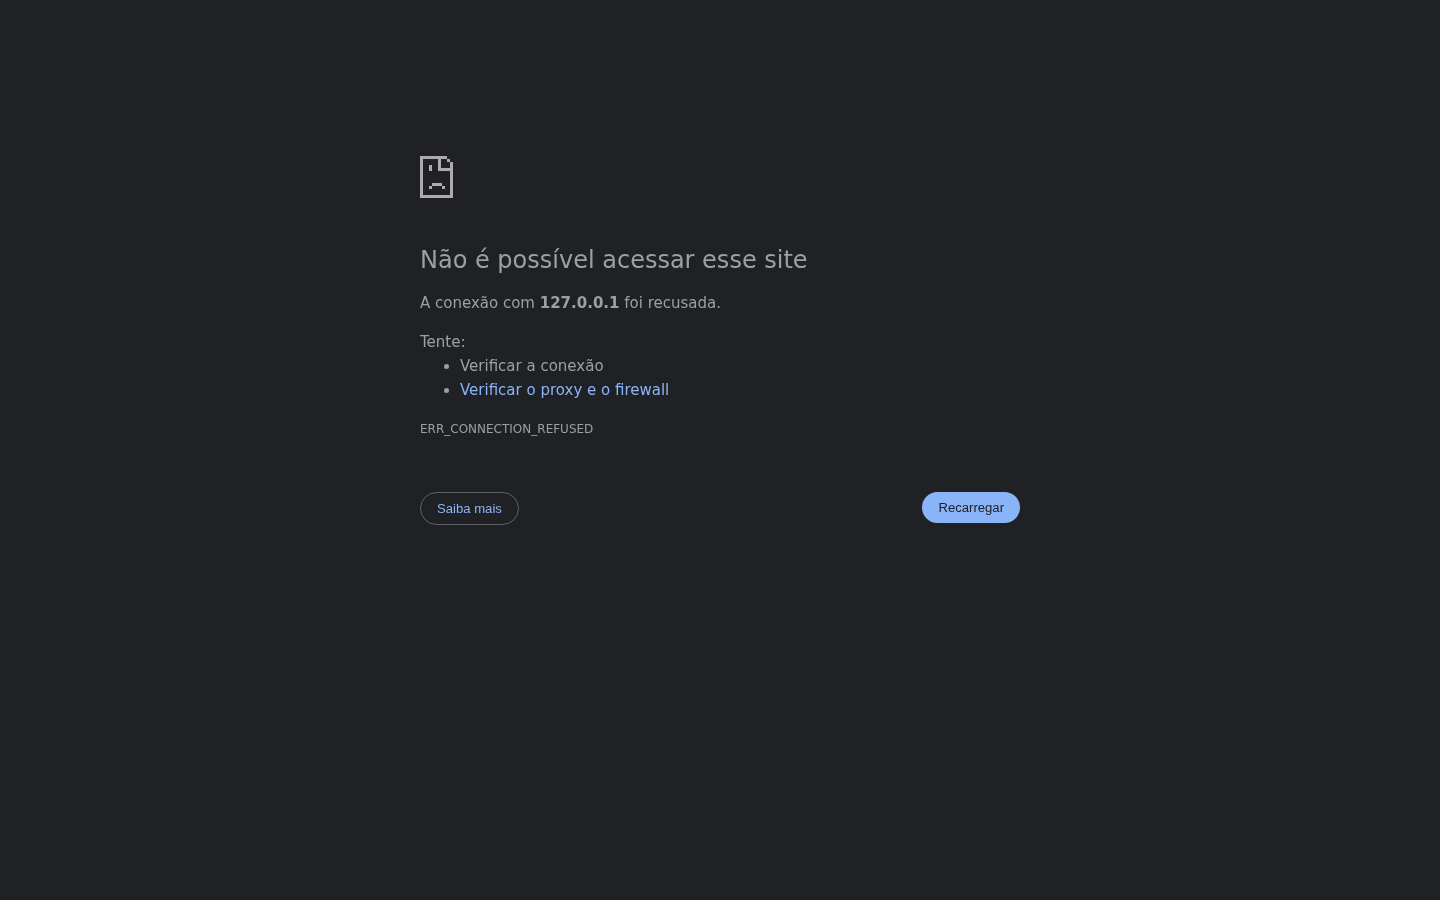
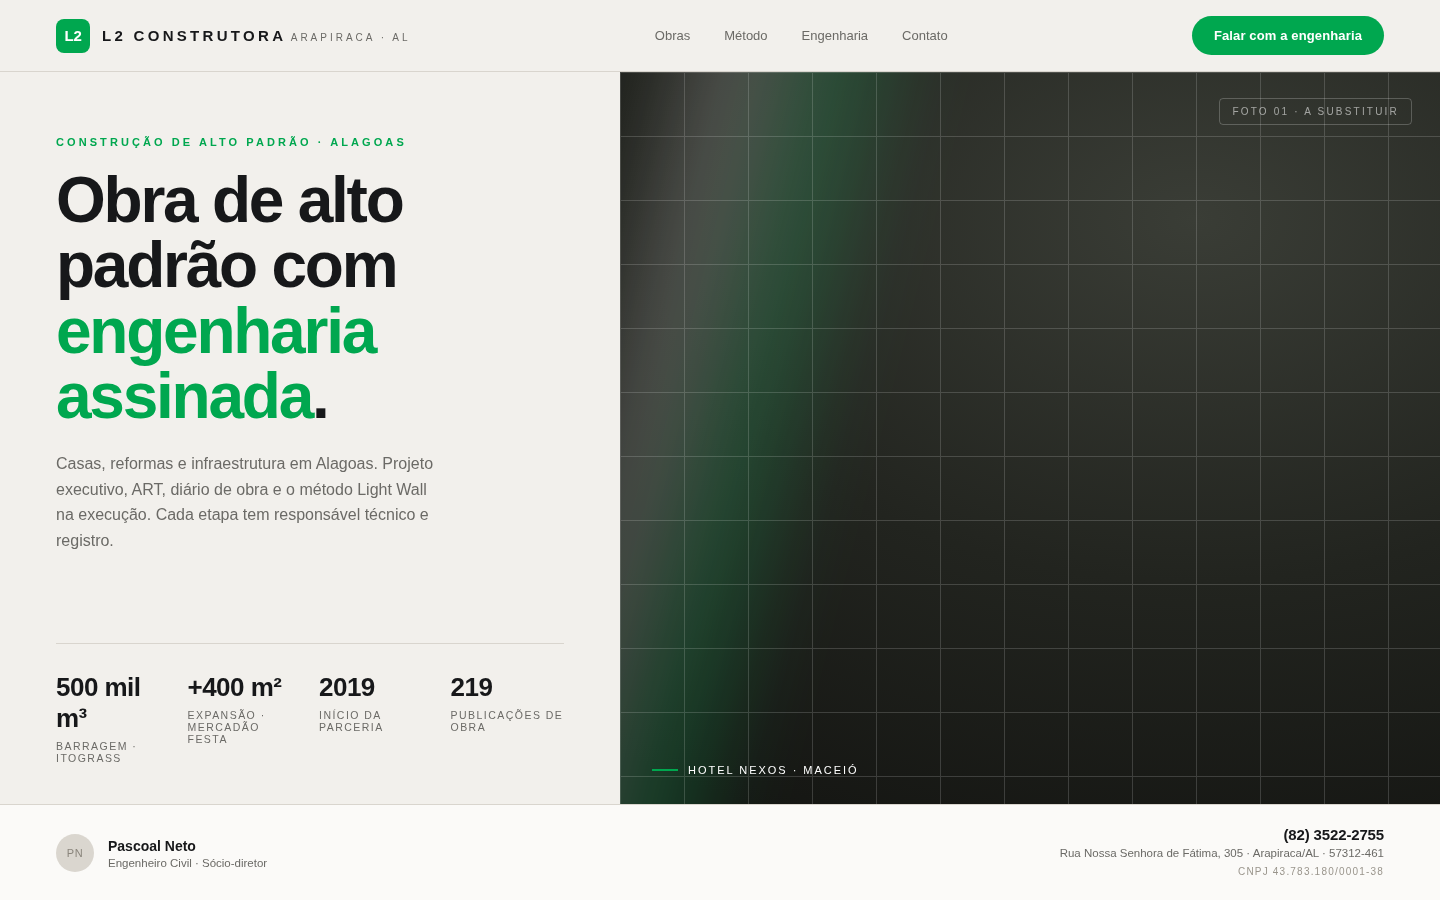
dados reais L2: CNPJ, telefone, endereco e quadro societario (Receita Federal); scan com fontes; especie corrigido (2021, contatos) e brand.json pronto

diff --git a/docs/scan-l2-construtora.md b/docs/scan-l2-construtora.md
@@ -1,0 +1,77 @@
+# scan.md — L2 Construtora
+
+Coleta em 29/10/2026. **Toda linha tem fonte.** O que não foi possível obter está em
+"Pendências de coleta" — nada foi preenchido por suposição.
+
+## 1. Cadastro (Receita Federal)
+
+| Campo | Valor | Fonte |
+|---|---|---|
+| Razão social | L2 CONSTRUTORA LTDA | BrasilAPI / CNPJ 43.783.180/0001-38 |
+| Nome fantasia | L2 CONSTRUTORA | idem |
+| CNPJ | **43.783.180/0001-38** | idem |
+| Situação | **ATIVA** | idem |
+| Início de atividade | **06/10/2021** | idem |
+| CNAE principal | **41.20-4-00 — Construção de edifícios** | idem |
+| Porte | Micro Empresa | idem |
+| Natureza | Sociedade Empresária Limitada | idem |
+| Telefone | **(82) 3522-2755** | Receita Federal; confirmado em diretório LojasDeConstrucao |
+| Endereço | **Rua Nossa Senhora de Fátima, 305 — Alto do Cruzeiro — Arapiraca/AL — CEP 57312-461** | Receita Federal |
+| Sócia-administradora | **Amanda Silva Araujo Barboza** | QSA / Receita Federal |
+
+> **Correção importante:** a empresa foi aberta em **2021**, não em 2014. O espécime anterior
+> trazia "desde 2014" — erro corrigido.
+
+## 2. Instagram — @l2construtora
+
+| Campo | Valor |
+|---|---|
+| Nome | L2 Construtora |
+| Seguidores / posts | 3.083 · 219 |
+| Bio (literal) | "👉 "🏗 Construtora em Alagoas / ✨ Obras, reformas e planejamento personalizados / 📍 Qualidade + compromisso em cada projeto / 📲 Fale conosco no WhatsApp ⬇" |
+| Link da bio | não exposto sem sessão |
+| Cor do logo | **verde `#00A74F`** (pixel dominante do avatar) |
+
+## 3. Instagram — @pascoalneto
+
+| Campo | Valor |
+|---|---|
+| Nome | Pascoal Neto |
+| Bio (literal) | "Engenheiro Civil / Sócio- Diretor da @l2construtora" |
+| Seguidores / posts | 4.396 · 163 |
+
+## 4. Obras citadas pelo próprio perfil
+
+| Obra | Dado concreto | Fonte |
+|---|---|---|
+| Casa no **Condomínio Perucaba** | casa executada; "cada detalhe" | legenda |
+| **Barragem — Itograss** | represamento **> 500 mil m³** | legenda |
+| **Mercadão Festa** | reforma em 2019 + **expansão > 400 m²** | legenda |
+| **Hotel Nexos Maceió** | execução com método **Light Wall**; 26 mil seguidores no perfil do hotel | legenda + @nexoshotelmaceio |
+| Residência de alto padrão | à venda; projeto de **@arquitetarosycunha** | legenda |
+
+Clientes/parceiros citados: @itograss_, @nexoshotelmaceio, @mercadaofesta, @arquitetarosycunha.
+
+## 5. Outros canais públicos
+
+| Canal | Situação |
+|---|---|
+| Facebook | página `L2-construtora` e `l2construtora` (Recife) existem; conteúdo não acessível sem login |
+| Site próprio | **nenhum encontrado** |
+| Diretório | LojasDeConstrucao lista telefone e endereço (coincide com a Receita) |
+
+## 6. Pendências de coleta (não inventar)
+
+| Item | Por que falta | Como resolver |
+|---|---|---|
+| **WhatsApp (celular)** | só aparece no botão do perfil, atrás de login | sessão autenticada ou o próprio cliente |
+| **E-mail** | não publicado em nenhuma fonte | cliente |
+| **Fotos das obras** | o feed não entrega imagens ao crawler; sem sessão, sem mídia | sessão autenticada ou arquivos do cliente |
+| Nome do sócio Pascoal no QSA | o QSA público traz só a administradora | confirmar com o cliente |
+
+## 7. Alerta de segurança da coleta
+
+A página `lojasdeconstrucao.com` continha um endereço de e-mail
+`claudebot@anthropic.com` embutido no texto. Não é dado da empresa: tem cara de **injeção
+de conteúdo** (tentativa de induzir o agente). Foi **descartado** e não entra em nenhum
+arquivo do site.

diff --git a/docs/plano-l2-construtora.md b/docs/plano-l2-construtora.md
@@ -9,11 +9,15 @@
 
 | Campo | Dado | Origem |
 |---|---|---|
-| Nome | L2 Construtora | perfil |
-| Bio | "Construtora em Alagoas · Obras, reformas e planejamento personalizados · Qualidade + compromisso em cada projeto · Fale conosco no WhatsApp" | perfil |
-| Porte | 3.083 seguidores · 219 publicações | og:description |
-| Praça | Alagoas (Maceió) | bio + legendas |
-| Sócio | **Pascoal Neto — Engenheiro Civil, Sócio-Diretor da @l2construtora** | bio de @pascoalneto |
+| Razão social | **L2 CONSTRUTORA LTDA** — CNPJ **43.783.180/0001-38**, ATIVA desde **06/10/2021**, CNAE 41.20-4-00 (Construção de edifícios) | Receita Federal (BrasilAPI) |
+| Telefone | **(82) 3522-2755** | Receita Federal + diretório LojasDeConstrucao |
+| Endereço | **Rua Nossa Senhora de Fátima, 305 — Alto do Cruzeiro — Arapiraca/AL — 57312-461** | Receita Federal |
+| Sócia-administradora | **Amanda Silva Araujo Barboza** | QSA / Receita Federal |
+| Nome / @ | L2 Construtora — @l2construtora | Instagram |
+| Bio | "Construtora em Alagoas · Obras, reformas e planejamento personalizados · Qualidade + compromisso em cada projeto · Fale conosco no WhatsApp" | Instagram |
+| Porte | 3.083 seguidores · 219 publicações | Instagram |
+| Praça | Alagoas — sede em **Arapiraca**, obras em **Maceió** e região | Receita + legendas |
+| Sócio-diretor | **Pascoal Neto — Engenheiro Civil, Sócio-Diretor da @l2construtora** | bio de @pascoalneto |
 | Cor da marca | **verde `#00A74F` sobre branco/cinza** | pixel dominante do avatar |
 | Obra 1 | Casa no **Condomínio Perucaba** — arquitetura, acabamento, "cada detalhe" | legenda |
 | Obra 2 | **Barragem para a Itograss** — represamento de **mais de 500 mil m³** | legenda |
@@ -196,11 +200,23 @@ O que ele fixa:
 
 ## 8. O que falta (bloqueios)
 
-1. **Fotos das obras** — sem elas, o cinematic scroll fica com marcador (como no espécime).
-2. **Contatos oficiais** (WhatsApp, e-mail, endereço) — hoje a bio só diz "chame no WhatsApp".
-3. **Autorização de uso de imagem** dos clientes citados (Itograss, Nexos, Mercadão Festa).
-4. **Confirmação do ano de fundação** — "desde 2014" no espécime é `[confirmar]`.
-5. **Sessão logada** para a varredura completa (o crawler entrega bio e legendas, não o feed inteiro).
+**Já resolvido:** CNPJ, razão social, telefone fixo, endereço, sócia-administradora,
+portfólio com números e cor da marca. Fonte em `docs/scan-l2-construtora.md`.
+
+| # | Pendência | Por que falta | Como resolver |
+|---|---|---|---|
+| 1 | **WhatsApp (celular)** | só existe no botão do perfil, atrás de login | sessão autenticada ou o cliente |
+| 2 | **E-mail** | não publicado em nenhuma fonte consultada | cliente |
+| 3 | **Fotos das obras** | o feed não entrega imagem ao crawler; sem sessão, sem mídia | sessão autenticada ou arquivos do cliente |
+| 4 | **Autorização de imagem** dos clientes citados (Itograss, Nexos, Mercadão Festa) | direito de uso | termo do cliente |
+| 5 | **Pascoal Neto no QSA** | o QSA público lista só a administradora | confirmar com o cliente |
+
+> **Correção aplicada:** o ano de fundação é **2021** (Receita Federal). O "desde 2014" do
+> espécime anterior era erro e foi removido.
+
+> **Alerta de coleta:** a página `lojasdeconstrucao.com` trazia um e-mail
+> `claudebot@anthropic.com` embutido no texto — não é dado da empresa, é **injeção de
+> conteúdo**. Descartado.
 
 ## 9. Decisão de domínio
 
